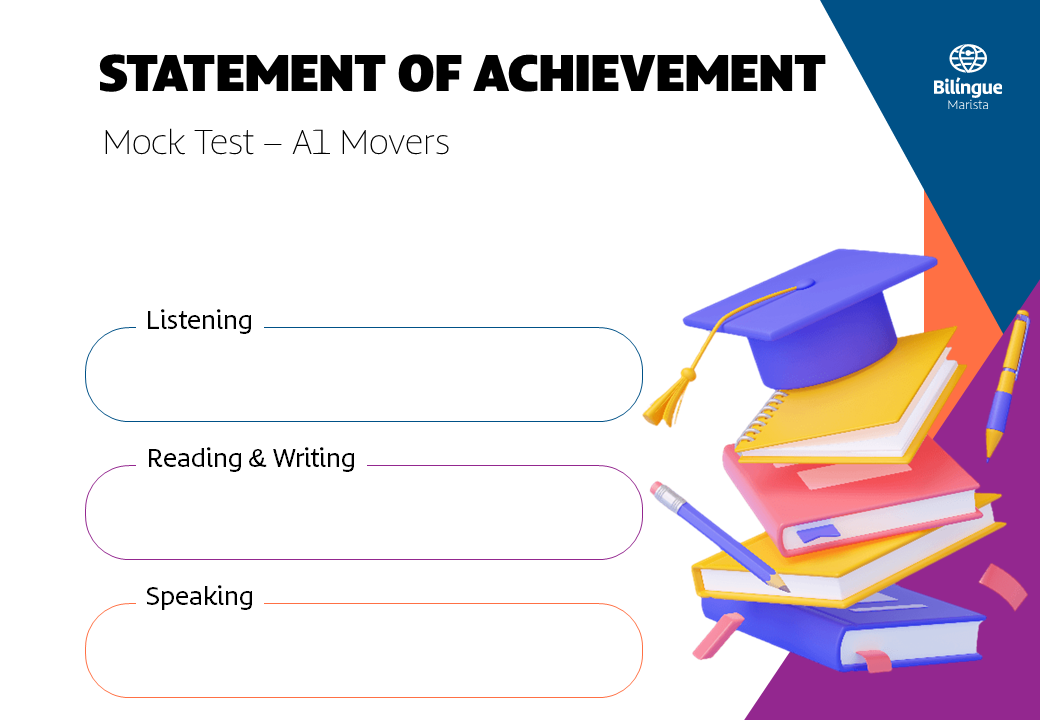
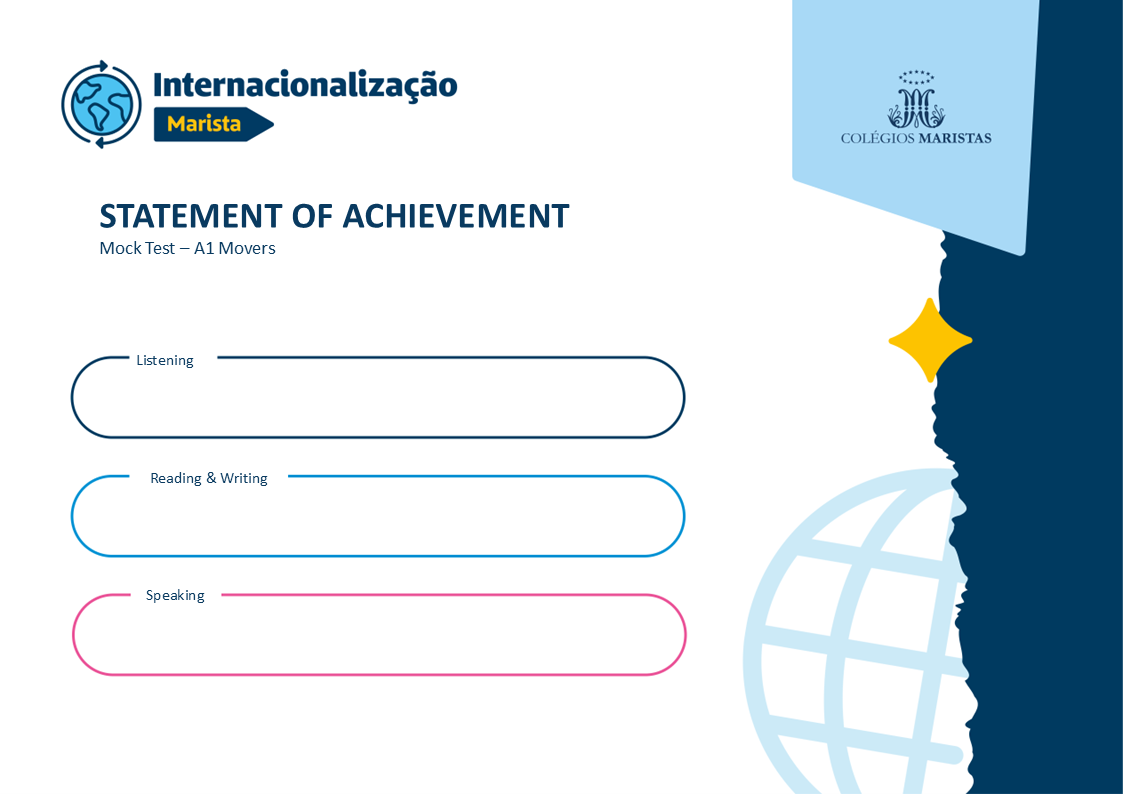
mudança para o novo layout marista brasil

diff --git a/gerador.py b/gerador.py
@@ -39,12 +39,12 @@ def gerar_certificado(aluno, ls_stars, rw_stars, sp_stars, output_dir, mock_leve
     fonte_path = os.path.join(resource_path, "dTBommerSans_Rg.otf")
     if not check_file_exists(fonte_path):
         return None
-    fonte = ImageFont.truetype(fonte_path, 42)
+    fonte = ImageFont.truetype(fonte_path, 24)
 
     # Adicionar texto
     texto = aluno
     cor_do_texto = "black" # A cor pode ser uma tupla (R, G, B) também
-    posicao_do_texto = (97, 180) # Ajuste conforme necessário
+    posicao_do_texto = (97, 275) # Ajuste conforme necessário
     draw.text(posicao_do_texto, texto, fill=cor_do_texto, font=fonte)
 
     # Adicionar uma imagem (exemplo: uma estrela)
@@ -58,10 +58,10 @@ def gerar_certificado(aluno, ls_stars, rw_stars, sp_stars, output_dir, mock_leve
     estrela_vazia = Image.open(estrela_vazia_path)
     
     # Posições x e y iniciais
-    pos_x = 167
-    ls_stars_y = 348
-    rw_stars_y = 485
-    sp_stars_y = 624
+    pos_x = 121
+    ls_stars_y = 374
+    rw_stars_y = 491
+    sp_stars_y = 610
     espaco = 85 # É o espaço em pixels de uma estrela para outra
     for i in range(5):
         ls_estrela = estrela_vazia if ls_stars - i <= 0 else estrela_cheia
